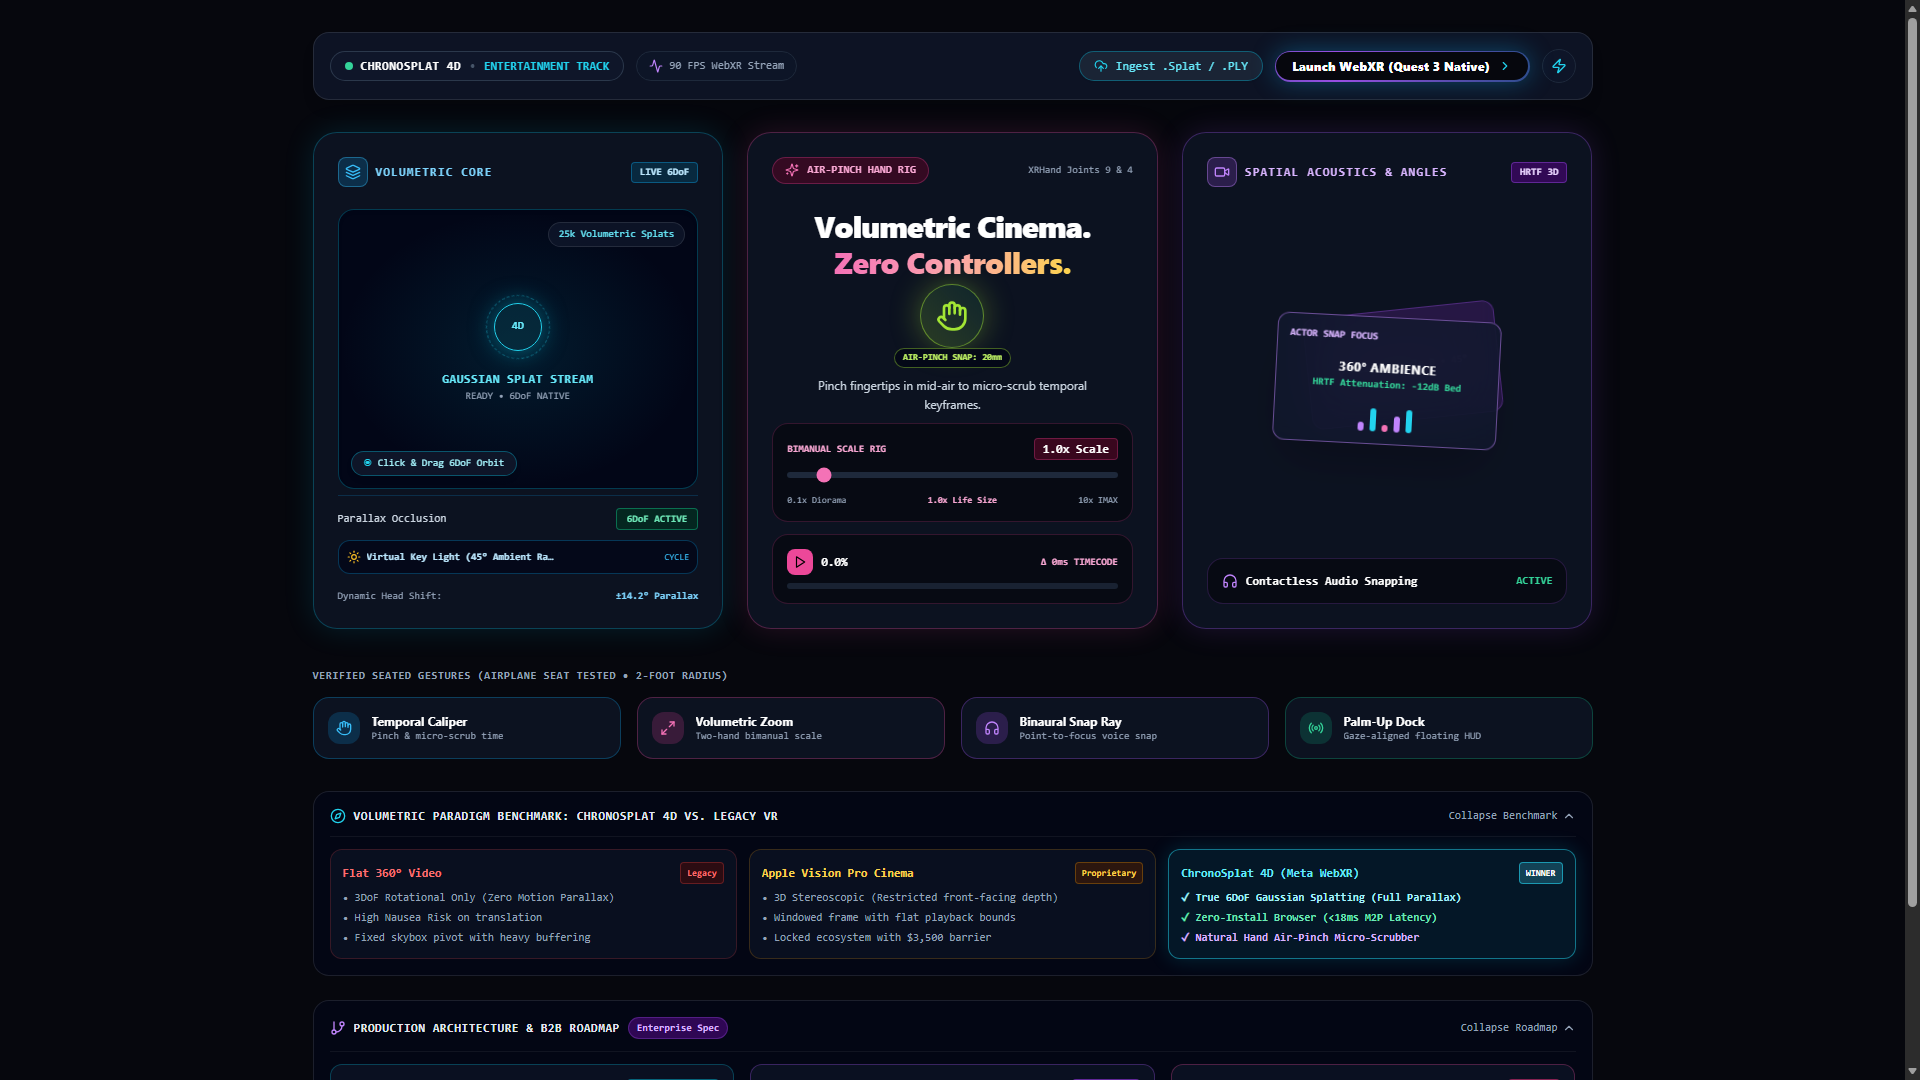
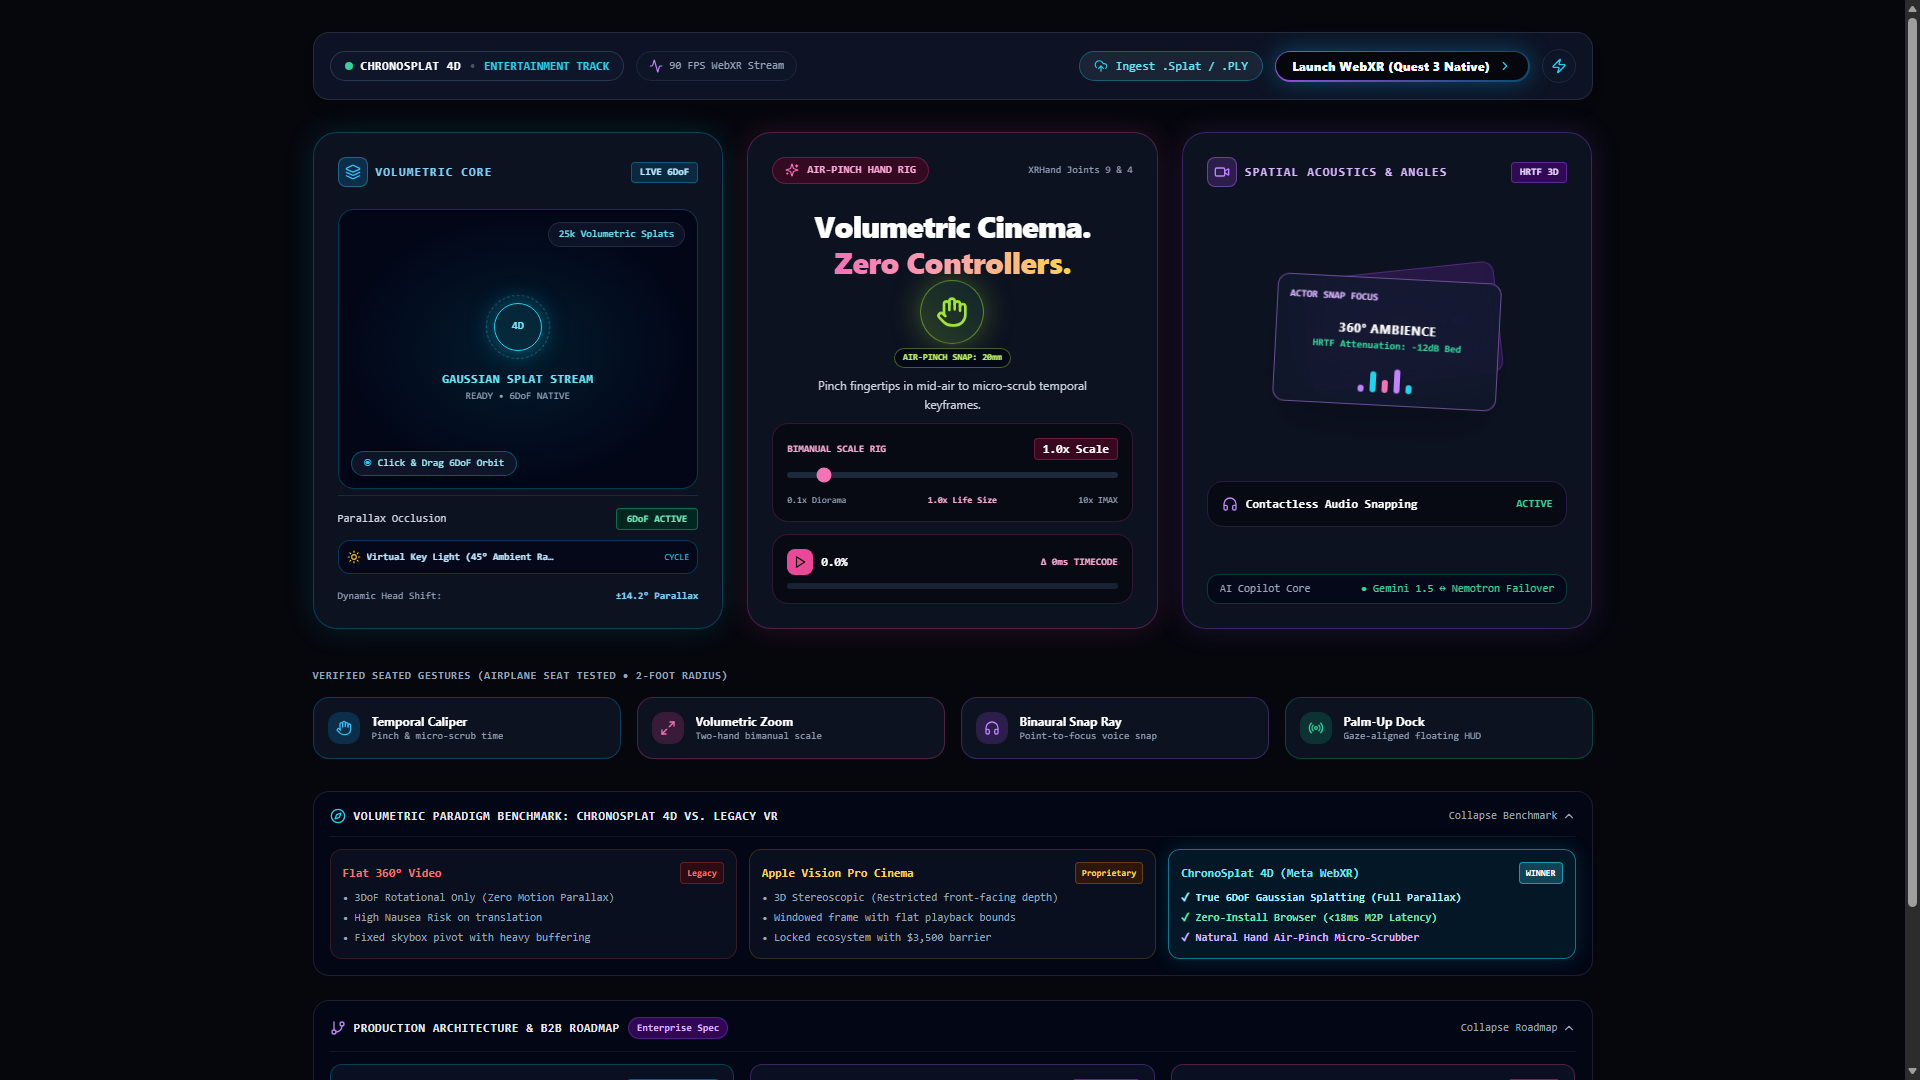
feat: integrate Dual-LLM Spatial Director backend with Gemini and NVIDIA Nemotron fallback

diff --git a/src/app/api/spatial-director/route.ts b/src/app/api/spatial-director/route.ts
@@ -1,0 +1,168 @@
+import { NextRequest, NextResponse } from 'next/server';
+
+interface SpatialDirectorResponse {
+  cameraX: number;
+  cameraY: number;
+  cameraZ: number;
+  timecodeScale: number;
+  focusActor: string;
+}
+
+const SYSTEM_PROMPT = `You are ChronoSplat 4D's Spatial Copilot. Convert natural language director instructions into 6DoF camera vectors and audio focus targets. Output strictly valid JSON without any markdown code fences or explanatory prose.
+The output MUST have these exact keys:
+- cameraX: number (-5.0 to 5.0)
+- cameraY: number (0.0 to 5.0)
+- cameraZ: number (-5.0 to 5.0)
+- timecodeScale: number (0.1 to 2.0)
+- focusActor: string (e.g. "actor-lead", "actor-support", or "ambient-scene")`;
+
+function cleanAndParseJson<T>(rawText: string): T {
+  const cleaned = rawText
+    .replace(/^```json\s*/i, '')
+    .replace(/^```\s*/i, '')
+    .replace(/```$/i, '')
+    .trim();
+  return JSON.parse(cleaned) as T;
+}
+
+function computeHeuristicFallback(prompt: string): SpatialDirectorResponse {
+  const lower = prompt.toLowerCase();
+  let cameraX = 0.0;
+  let cameraY = 1.2;
+  let cameraZ = 2.5;
+  let timecodeScale = 1.0;
+  let focusActor = 'actor-lead';
+
+  if (lower.includes('close') || lower.includes('zoom') || lower.includes('intimate')) {
+    cameraZ = 0.8;
+    cameraY = 1.4;
+  } else if (lower.includes('wide') || lower.includes('diorama') || lower.includes('panoramic')) {
+    cameraZ = 4.2;
+    cameraY = 2.0;
+  }
+
+  if (lower.includes('left') || lower.includes('profile')) {
+    cameraX = -1.8;
+  } else if (lower.includes('right')) {
+    cameraX = 1.8;
+  }
+
+  if (lower.includes('slow') || lower.includes('bullet') || lower.includes('dramatic')) {
+    timecodeScale = 0.3;
+  } else if (lower.includes('fast') || lower.includes('rush')) {
+    timecodeScale = 1.7;
+  }
+
+  if (lower.includes('support') || lower.includes('background') || lower.includes('secondary')) {
+    focusActor = 'actor-support';
+  } else if (lower.includes('ambient') || lower.includes('world') || lower.includes('crowd')) {
+    focusActor = 'ambient-scene';
+  }
+
+  return { cameraX, cameraY, cameraZ, timecodeScale, focusActor };
+}
+
+export async function POST(req: NextRequest) {
+  try {
+    const body = await req.json();
+    const prompt = typeof body?.prompt === 'string' ? body.prompt : 'Focus on the protagonist with a dramatic cinematic orbit';
+
+    // Step 1: Primary - Google Gemini 1.5 Flash
+    const geminiKey = process.env.GEMINI_API_KEY;
+    if (geminiKey) {
+      try {
+        const geminiUrl = `https://generativelanguage.googleapis.com/v1beta/models/gemini-1.5-flash:generateContent?key=${geminiKey}`;
+        const geminiRes = await fetch(geminiUrl, {
+          method: 'POST',
+          headers: { 'Content-Type': 'application/json' },
+          body: JSON.stringify({
+            contents: [
+              {
+                parts: [
+                  {
+                    text: `${SYSTEM_PROMPT}\n\nDirector Instruction: "${prompt}"`,
+                  },
+                ],
+              },
+            ],
+            generationConfig: {
+              responseMimeType: 'application/json',
+              temperature: 0.2,
+            },
+          }),
+        });
+
+        if (geminiRes.ok) {
+          const geminiData = await geminiRes.json();
+          const rawText = geminiData?.candidates?.[0]?.content?.parts?.[0]?.text;
+          if (rawText) {
+            const parsed = cleanAndParseJson<SpatialDirectorResponse>(rawText);
+            return NextResponse.json({
+              engine: 'Google Gemini 1.5 Flash',
+              status: 'success',
+              data: parsed,
+            });
+          }
+        }
+      } catch (geminiError) {
+        console.warn('Gemini Spatial Director call failed, failing over to NVIDIA Nemotron:', geminiError);
+      }
+    }
+
+    // Step 2: Fallback - NVIDIA Nemotron NIM
+    const nvidiaKey = process.env.NVIDIA_API_KEY;
+    if (nvidiaKey) {
+      try {
+        const nvidiaRes = await fetch('https://integrate.api.nvidia.com/v1/chat/completions', {
+          method: 'POST',
+          headers: {
+            'Authorization': `Bearer ${nvidiaKey}`,
+            'Content-Type': 'application/json',
+          },
+          body: JSON.stringify({
+            model: 'nvidia/nemotron-4-340b-instruct',
+            messages: [
+              { role: 'system', content: SYSTEM_PROMPT },
+              { role: 'user', content: prompt },
+            ],
+            temperature: 0.2,
+            max_tokens: 512,
+          }),
+        });
+
+        if (nvidiaRes.ok) {
+          const nvidiaData = await nvidiaRes.json();
+          const rawText = nvidiaData?.choices?.[0]?.message?.content;
+          if (rawText) {
+            const parsed = cleanAndParseJson<SpatialDirectorResponse>(rawText);
+            return NextResponse.json({
+              engine: 'NVIDIA Nemotron (Failover Active)',
+              status: 'success',
+              data: parsed,
+            });
+          }
+        }
+      } catch (nvidiaError) {
+        console.warn('NVIDIA Nemotron call failed, engaging deterministic fallback:', nvidiaError);
+      }
+    }
+
+    // Step 3: Deterministic Spatial Simulation Fallback
+    const simulatedData = computeHeuristicFallback(prompt);
+    return NextResponse.json({
+      engine: 'Deterministic Spatial Simulation (Offline Fallback)',
+      status: 'success',
+      data: simulatedData,
+    });
+  } catch (error) {
+    console.error('Spatial Director route error:', error);
+    return NextResponse.json(
+      {
+        engine: 'Error Recovery Fallback',
+        status: 'error',
+        data: computeHeuristicFallback('default'),
+      },
+      { status: 500 }
+    );
+  }
+}

diff --git a/src/app/page.tsx b/src/app/page.tsx
@@ -487,6 +487,12 @@ export default function SpatialCinemaTriptych() {
             </div>
             <span className="text-[11px] font-bold text-emerald-400">ACTIVE</span>
           </div>
+
+          {/* AI Copilot Core Live Badge */}
+          <div className="mt-3 px-3 py-1.5 rounded-xl bg-slate-950/70 border border-emerald-500/30 flex items-center justify-between text-[11px] font-mono">
+            <span className="text-slate-400">AI Copilot Core</span>
+            <span className="text-emerald-400 flex items-center gap-1.5">● Gemini 1.5 ↔ Nemotron Failover</span>
+          </div>
         </div>
       </div>
 
